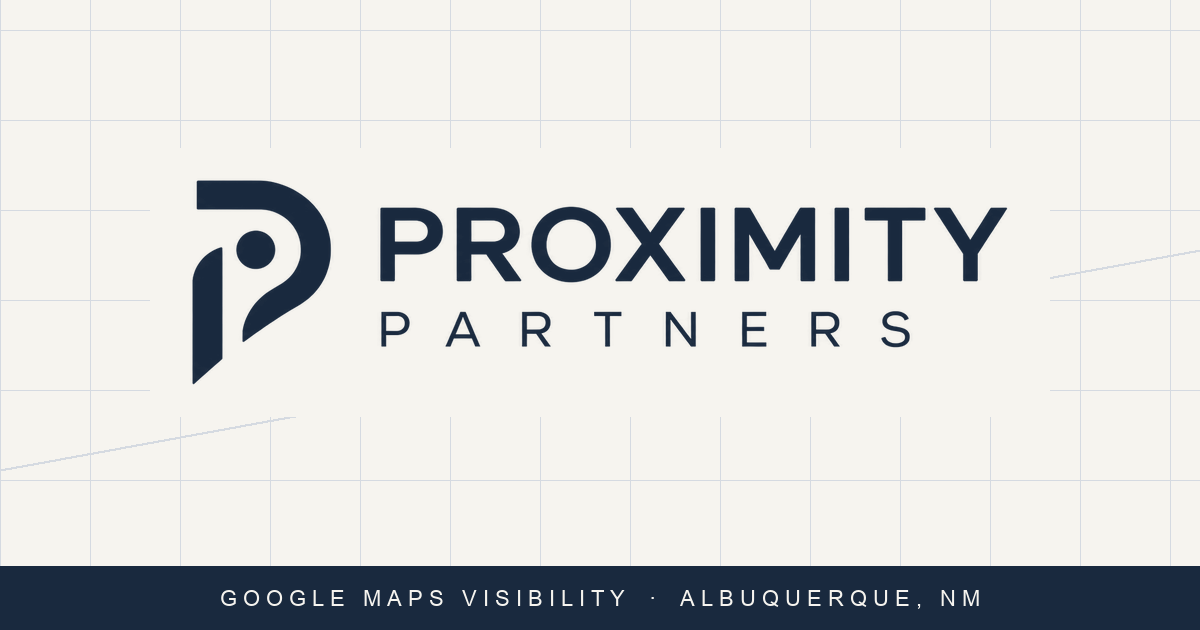
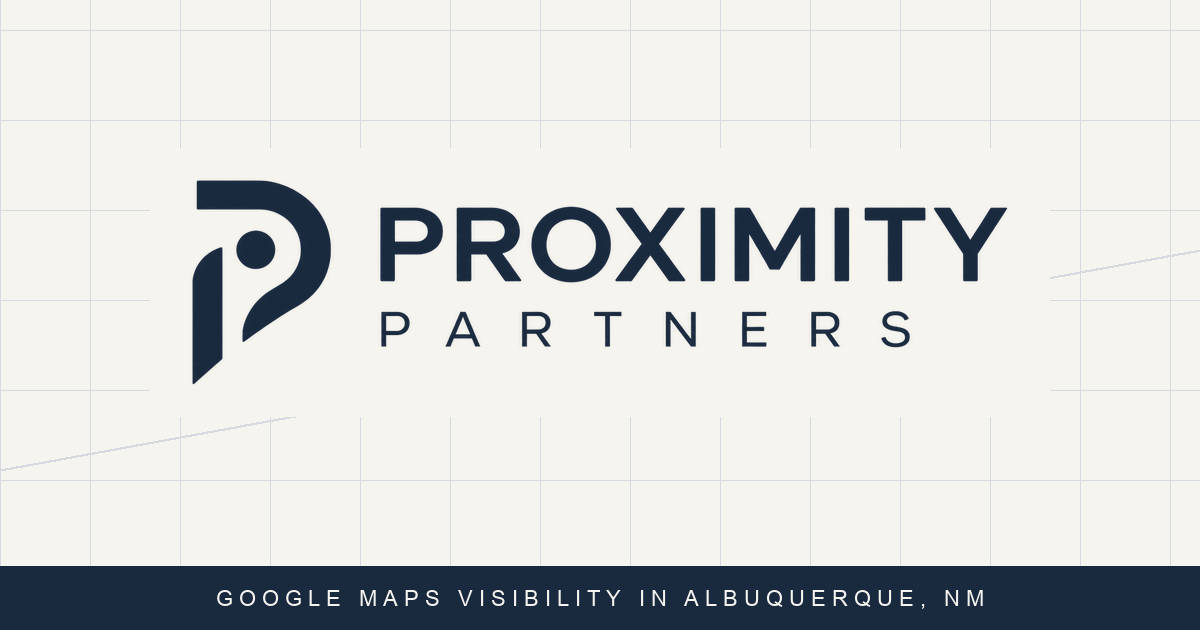
Copy fixes and keep PayPal buttons beneath header and menu
- Oxford commas throughout; capitalize Founder; drop the dot in the hero label
- Contain PayPal iframes in their own stacking context so they no longer
  paint over the sticky header and the open mobile menu

Changed region(s): [[0.185, 0.9349, 0.8325, 0.9651]]

diff --git a/index.html b/index.html
@@ -4,7 +4,7 @@
   <meta charset="UTF-8">
   <meta name="viewport" content="width=device-width, initial-scale=1">
   <title>Proximity Partners | Google Maps Visibility for Albuquerque Businesses</title>
-  <meta name="description" content="More calls and walk-ins from Google Maps. Proximity Partners sets up and maintains Google profiles for Albuquerque restaurants, salons and barbers. One setup fee, one monthly plan. Free Maps audit.">
+  <meta name="description" content="More calls and walk-ins from Google Maps. Proximity Partners sets up and maintains Google profiles for Albuquerque restaurants, salons, and barbers. One setup fee, one monthly plan. Free Maps audit.">
   <link rel="canonical" href="https://proximitypartners.business/">
   <meta name="theme-color" content="#19293E">
   <meta name="color-scheme" content="light">
@@ -14,7 +14,7 @@
   <meta property="og:type" content="website">
   <meta property="og:site_name" content="Proximity Partners">
   <meta property="og:title" content="Proximity Partners | We put local businesses on the map">
-  <meta property="og:description" content="Google Maps visibility for Albuquerque restaurants, salons and barbers. Setup in 7 days, monthly upkeep, a 1-page report on the 5th. Get a free Maps audit.">
+  <meta property="og:description" content="Google Maps visibility for Albuquerque restaurants, salons, and barbers. Setup in 7 days, monthly upkeep, a 1-page report on the 5th. Get a free Maps audit.">
   <meta property="og:url" content="https://proximitypartners.business/">
   <meta property="og:image" content="https://proximitypartners.business/og-image.png">
   <meta property="og:image:width" content="1200">
@@ -23,7 +23,7 @@
   <meta property="og:locale" content="en_US">
   <meta name="twitter:card" content="summary_large_image">
   <meta name="twitter:title" content="Proximity Partners | We put local businesses on the map">
-  <meta name="twitter:description" content="Google Maps visibility for Albuquerque restaurants, salons and barbers. Get a free Maps audit.">
+  <meta name="twitter:description" content="Google Maps visibility for Albuquerque restaurants, salons, and barbers. Get a free Maps audit.">
   <meta name="twitter:image" content="https://proximitypartners.business/og-image.png">
 
   <!-- Icons -->
@@ -73,7 +73,7 @@
       {
         "@type": "Offer",
         "name": "Proximity Books",
-        "description": "Google profile setup and monthly upkeep for salons, barbers and appointment businesses. $299 one-time setup plus $199 per month.",
+        "description": "Google profile setup and monthly upkeep for salons, barbers, and appointment businesses. $299 one-time setup plus $199 per month.",
         "priceSpecification": { "@type": "UnitPriceSpecification", "price": 199, "priceCurrency": "USD", "unitText": "MONTH" }
       }
     ]
@@ -114,9 +114,9 @@
     <section class="hero" aria-labelledby="hero-title">
       <div class="wrap hero-grid">
         <div class="hero-copy">
-          <p class="eyebrow reveal">Google Search &amp; Maps visibility &middot; Albuquerque, NM</p>
+          <p class="eyebrow reveal">Google Search &amp; Maps visibility in Albuquerque, NM</p>
           <h1 id="hero-title" class="reveal">We put local businesses on the map. <em>Literally.</em></h1>
-          <p class="lede reveal">When someone nearby searches for what you sell, Google shows a map with a handful of businesses on it. I get you onto that map and keep you there, so more of those searches turn into calls, bookings and people walking through your door.</p>
+          <p class="lede reveal">When someone nearby searches for what you sell, Google shows a map with a handful of businesses on it. I get you onto that map and keep you there, so more of those searches turn into calls, bookings, and people walking through your door.</p>
           <div class="hero-actions reveal">
             <a class="btn" href="#audit">Get a free Maps audit <span class="btn-arrow" aria-hidden="true">&rarr;</span></a>
             <a class="link-quiet" href="#plans">See pricing</a>
@@ -185,14 +185,14 @@
             <span class="step-num" aria-hidden="true">02</span>
             <div>
               <h3>Setup within 7 days</h3>
-              <p>I rebuild your Google profile: categories, hours, services, photos, and the buttons that get people to call, order or book. You approve it once. It goes live within a week.</p>
+              <p>I rebuild your Google profile: categories, hours, services, photos, and the buttons that get people to call, order, or book. You approve it once. It goes live within a week.</p>
             </div>
           </li>
           <li class="step reveal">
             <span class="step-num" aria-hidden="true">03</span>
             <div>
               <h3>Monthly upkeep</h3>
-              <p>Every month I post, answer reviews and fix what Google changes. On the 5th you get a <span class="nowrap">1-page</span> report: calls, direction requests, and where you rank against that same competitor.</p>
+              <p>Every month I post, answer reviews, and fix what Google changes. On the 5th you get a <span class="nowrap">1-page</span> report: calls, direction requests, and where you rank against that same competitor.</p>
             </div>
           </li>
         </ol>
@@ -212,7 +212,7 @@
           <article class="plan reveal" aria-labelledby="plan-eats">
             <header class="plan-top">
               <h3 id="plan-eats">Proximity <em>Eats</em></h3>
-              <p class="plan-for">For restaurants, cafes and food trucks</p>
+              <p class="plan-for">For restaurants, cafes, and food trucks</p>
             </header>
             <p class="plan-price">
               <span class="price-num">$149</span><span class="price-unit">/month</span>
@@ -236,7 +236,7 @@
           <article class="plan reveal" aria-labelledby="plan-books">
             <header class="plan-top">
               <h3 id="plan-books">Proximity <em>Books</em></h3>
-              <p class="plan-for">For salons, barbers and appointment businesses</p>
+              <p class="plan-for">For salons, barbers, and appointment businesses</p>
             </header>
             <p class="plan-price">
               <span class="price-num">$199</span><span class="price-unit">/month</span>
@@ -265,7 +265,7 @@
           </div>
           <div>
             <dt>Included in both</dt>
-            <dd>Website hosting and updates. Send me a new menu, new hours or new photos and I update your site for you.</dd>
+            <dd>Website hosting and updates. Send me a new menu, new hours, or new photos and I update your site for you.</dd>
           </div>
         </dl>
       </div>
@@ -295,7 +295,7 @@
           <div class="about-photo-fallback">
             <img src="/assets/mark.png" alt="" width="219" height="318" loading="lazy">
           </div>
-          <figcaption>Breanna Gutierrez, founder. Albuquerque, NM.</figcaption>
+          <figcaption>Breanna Gutierrez, Founder. Albuquerque, NM.</figcaption>
         </figure>
 
         <div class="about-copy">
@@ -322,7 +322,7 @@
           <details class="reveal">
             <summary>Do you guarantee I&rsquo;ll be #1 on Google?</summary>
             <div class="answer">
-              <p>No. Nobody honestly can. Google ranks local results on relevance, distance and reputation, and distance changes with every person searching. A business three blocks away will often outrank you for someone standing next to it.</p>
+              <p>No. Nobody honestly can. Google ranks local results on relevance, distance, and reputation, and distance changes with every person searching. A business three blocks away will often outrank you for someone standing next to it.</p>
               <p>What I can promise is the work: a complete, active, well-reviewed profile, and a monthly report that shows exactly where you stand. Anyone who guarantees #1 is guessing.</p>
             </div>
           </details>
@@ -343,7 +343,7 @@
             <summary>Can I cancel?</summary>
             <div class="answer">
               <!-- PLACEHOLDER (policy): add your cancellation notice period here, e.g. "Just tell me before your next billing date." -->
-              <p>Yes. Both plans have a 3-month minimum, then go month to month and you can cancel any time. Your Google profile, photos and reviews are yours and stay yours.</p>
+              <p>Yes. Both plans have a 3-month minimum, then go month to month and you can cancel any time. Your Google profile, photos, and reviews are yours and stay yours.</p>
             </div>
           </details>
           <details class="reveal">

diff --git a/styles.css b/styles.css
@@ -518,7 +518,13 @@ h2 { font-size: var(--fs-h2); }
   border-top: 1px solid var(--rule);
 }
 .plan-pay-label { max-width: 22rem; margin-bottom: 1rem; font-size: var(--fs-small); color: var(--slate); }
-.paypal-slot { max-width: 20rem; min-height: 6.5rem; }
+.paypal-slot {
+  /* PayPal's iframes carry a high z-index; contain them so the sticky header and menu stay on top */
+  position: relative;
+  z-index: 0;
+  max-width: 20rem;
+  min-height: 6.5rem;
+}
 .plan-pay-fallback { font-size: var(--fs-small); color: var(--slate); }
 
 @media (min-width: 48em) {
